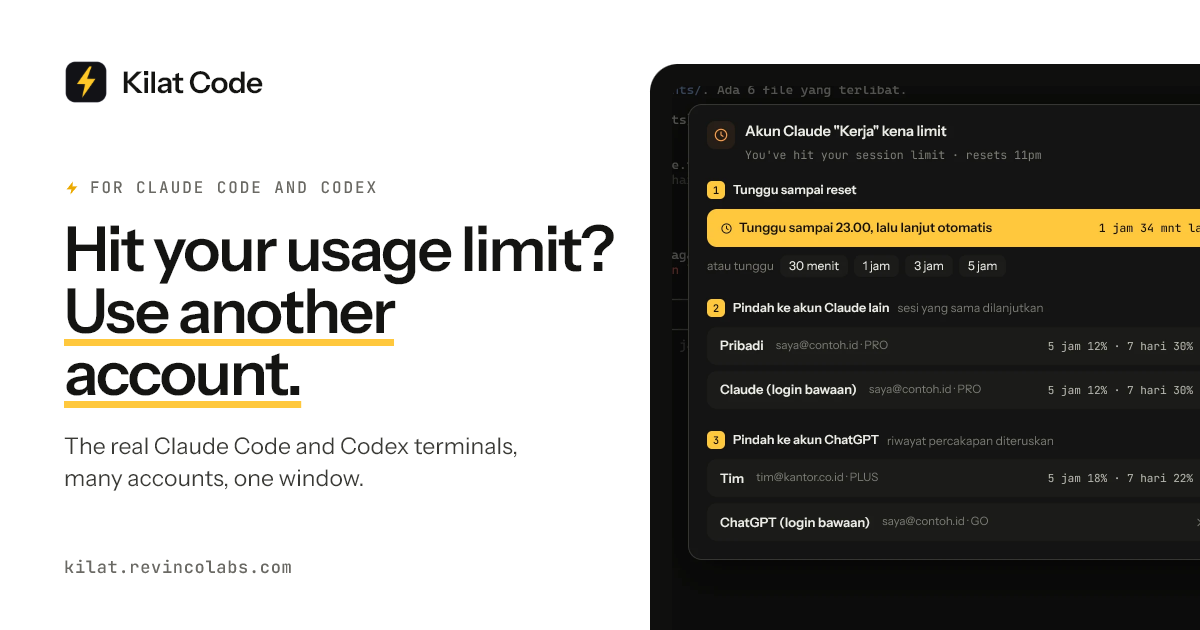
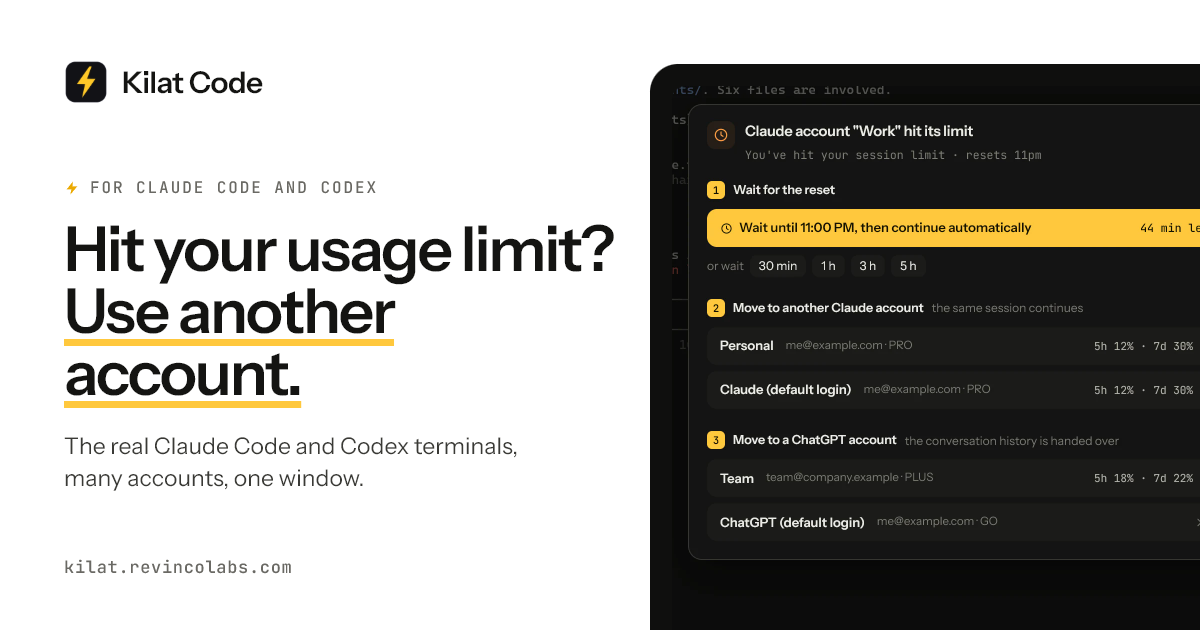
Website for 0.2.1: English screenshots, Fedora .rpm, English UI labels
The English pages show the app in English (screenshots taken from preview.html with English example data), the Indonesian pages keep Indonesian ones. Adds the .rpm download, version 0.2.1 and new file sizes, a Language row in the settings tables, and English UI labels throughout the English docs. The FAQ now says the app is available in English.

diff --git a/src/dev/mock.ts b/src/dev/mock.ts
@@ -17,6 +17,12 @@ const scenario = q.get("s") ?? "limit";
 const now = Date.now();
 const MIN = 60_000;
 const HOUR = 60 * MIN;
+/** Example data in English for ?lang=en (the website's English screenshots). */
+const EN = q.get("lang") === "en";
+const L = (id: string, en: string) => (EN ? en : id);
+const P1 = L("toko-online", "web-shop");
+const ROOT1 = `G:/${L("kode", "code")}/${P1}`;
+const ROOT2 = `G:/${L("kode", "code")}/api-server`;
 
 // A reset on a full hour, at least 40 minutes away, so the dialog text and the
 // CLI message agree.
@@ -58,13 +64,13 @@ const usage = (five: number, week: number) => ({
 });
 
 const accounts: Account[] = [
-  acc({ id: "c-kerja", provider: "claude", label: "Kerja", email: "dev@kantor.co.id", plan: "max", usage: usage(scenario === "limit" || scenario === "wait" ? 100 : 71, 64), limitedUntil: scenario === "limit" || scenario === "wait" ? resetAt : null }),
-  acc({ id: "c-pribadi", provider: "claude", label: "Pribadi", email: "saya@contoh.id", plan: "pro", usage: usage(12, 30) }),
-  acc({ id: "c-default", provider: "claude", kind: "default", label: "Claude (login bawaan)", email: "saya@contoh.id", plan: "pro", usage: usage(12, 30) }),
-  acc({ id: "x-tim", provider: "codex", kind: "chatgpt", label: "Tim", email: "tim@kantor.co.id", plan: "plus", usage: usage(18, 22) }),
-  acc({ id: "x-default", provider: "codex", kind: "default", label: "ChatGPT (login bawaan)", email: "saya@contoh.id", plan: "go" }),
+  acc({ id: "c-kerja", provider: "claude", label: L("Kerja", "Work"), email: L("dev@kantor.co.id", "dev@company.example"), plan: "max", usage: usage(scenario === "limit" || scenario === "wait" ? 100 : 71, 64), limitedUntil: scenario === "limit" || scenario === "wait" ? resetAt : null }),
+  acc({ id: "c-pribadi", provider: "claude", label: L("Pribadi", "Personal"), email: L("saya@contoh.id", "me@example.com"), plan: "pro", usage: usage(12, 30) }),
+  acc({ id: "c-default", provider: "claude", kind: "default", label: L("Claude (login bawaan)", "Claude (default login)"), email: L("saya@contoh.id", "me@example.com"), plan: "pro", usage: usage(12, 30) }),
+  acc({ id: "x-tim", provider: "codex", kind: "chatgpt", label: L("Tim", "Team"), email: L("tim@kantor.co.id", "team@company.example"), plan: "plus", usage: usage(18, 22) }),
+  acc({ id: "x-default", provider: "codex", kind: "default", label: L("ChatGPT (login bawaan)", "ChatGPT (default login)"), email: L("saya@contoh.id", "me@example.com"), plan: "go" }),
   acc({ id: "g-1", provider: "github", kind: "gh", label: "revincolabs", login: "revincolabs", gitName: "revincolabs", gitEmail: "dev@revincolabs.example" }),
-  acc({ id: "g-2", provider: "github", kind: "gh", label: "dev-kantor", login: "dev-kantor", gitName: "Dev Kantor", gitEmail: "dev@kantor.co.id" }),
+  acc({ id: "g-2", provider: "github", kind: "gh", label: L("dev-kantor", "work-dev"), login: L("dev-kantor", "work-dev"), gitName: L("Dev Kantor", "Work Dev"), gitEmail: L("dev@kantor.co.id", "dev@company.example") }),
 ];
 
 function thread(p: Partial<ThreadMeta> & Pick<ThreadMeta, "id" | "projectId" | "title">): ThreadMeta {
@@ -73,7 +79,7 @@ function thread(p: Partial<ThreadMeta> & Pick<ThreadMeta, "id" | "projectId" | "
     accountId: "c-pribadi",
     model: "opus",
     mode: "full",
-    cwd: "G:/kode/toko-online",
+    cwd: ROOT1,
     worktreeBranch: null,
     status: "ready",
     pinned: false,
@@ -91,24 +97,24 @@ const threads: ThreadMeta[] = [
   thread({
     id: "t1",
     projectId: "p1",
-    title: "Refactor pembayaran",
+    title: L("Refactor pembayaran", "Payments refactor"),
     accountId: "c-kerja",
     status: limited ? "limited" : "running",
     limit: limited ? { accountId: "c-kerja", provider: "claude", at: now - 3 * MIN, resetsAt: resetAt, message: `You've hit your session limit · resets ${resetText}` } : null,
     waitUntil: scenario === "wait" ? resetAt + MIN : null,
     updatedAt: now - 3 * MIN,
   }),
-  thread({ id: "t2", projectId: "p1", title: "Halaman checkout baru", provider: "codex", accountId: "x-tim", model: "", status: "running", worktreeBranch: "kilat/checkout", updatedAt: now - 1 * MIN }),
-  thread({ id: "t3", projectId: "p1", title: "Perbaiki bug login", status: "attention", updatedAt: now - 9 * MIN }),
-  thread({ id: "t4", projectId: "p2", title: "Migrasi database", cwd: "G:/kode/api-server", status: "running", updatedAt: now - 4 * MIN }),
-  thread({ id: "t5", projectId: "p2", title: "Tulis dokumentasi API", provider: "codex", accountId: "x-tim", model: "", cwd: "G:/kode/api-server", status: "ready", updatedAt: now - 3 * HOUR }),
-  thread({ id: "t6", projectId: "p2", title: "Coba Bun untuk test", cwd: "G:/kode/api-server", status: "off", archived: true, updatedAt: now - 5 * 24 * HOUR }),
+  thread({ id: "t2", projectId: "p1", title: L("Halaman checkout baru", "New checkout page"), provider: "codex", accountId: "x-tim", model: "", status: "running", worktreeBranch: "kilat/checkout", updatedAt: now - 1 * MIN }),
+  thread({ id: "t3", projectId: "p1", title: L("Perbaiki bug login", "Fix the login bug"), status: "attention", updatedAt: now - 9 * MIN }),
+  thread({ id: "t4", projectId: "p2", title: L("Migrasi database", "Database migration"), cwd: ROOT2, status: "running", updatedAt: now - 4 * MIN }),
+  thread({ id: "t5", projectId: "p2", title: L("Tulis dokumentasi API", "Write the API docs"), provider: "codex", accountId: "x-tim", model: "", cwd: ROOT2, status: "ready", updatedAt: now - 3 * HOUR }),
+  thread({ id: "t6", projectId: "p2", title: L("Coba Bun untuk test", "Try Bun for tests"), cwd: ROOT2, status: "off", archived: true, updatedAt: now - 5 * 24 * HOUR }),
 ];
 
 const data: AppData = {
   projects: [
-    { id: "p1", name: "toko-online", path: "G:/kode/toko-online", githubAccountId: "g-1", createdAt: now - 20 * 24 * HOUR },
-    { id: "p2", name: "api-server", path: "G:/kode/api-server", githubAccountId: "g-2", createdAt: now - 10 * 24 * HOUR },
+    { id: "p1", name: P1, path: ROOT1, githubAccountId: "g-1", createdAt: now - 20 * 24 * HOUR },
+    { id: "p2", name: "api-server", path: ROOT2, githubAccountId: "g-2", createdAt: now - 10 * 24 * HOUR },
   ],
   accounts,
   threads,
@@ -123,7 +129,7 @@ const data: AppData = {
     notify: true,
     sound: true,
     claudeChrome: false,
-    continuePrompt: "Lanjutkan pekerjaan yang tadi terhenti karena limit akun.",
+    continuePrompt: L("Lanjutkan pekerjaan yang tadi terhenti karena limit akun.", "Continue the work that stopped because the account hit its limit."),
   },
 };
 
@@ -140,7 +146,7 @@ const rule = dim("─".repeat(56));
 
 function claudeScreen(t: ThreadMeta): string {
   const a = accounts.find((x) => x.id === t.accountId)!;
-  const status = `${clay("⚡")} ${dim(`Kilat · ${a.label} · ${a.plan?.toUpperCase()} · ${a.usage?.windows.map((w) => `${w.label} ${w.usedPercent}%`).join(" · ")}`)}`;
+  const status = `${clay("⚡")} ${dim(`Kilat · ${a.label} · ${a.plan?.toUpperCase()} · ${a.usage?.windows.map((w) => `${L(w.label, w.label.replace(" jam", "h").replace(" hari", "d"))} ${w.usedPercent}%`).join(" · ")}`)}`;
   const head = [
     ` ${clay("▐▛███▜▌")}   ${bold("Claude Code")}`,
     `${clay("▝▜█████▛▘")}  ${dim(`Opus · Claude ${a.plan === "max" ? "Max" : "Pro"}`)}`,
@@ -150,9 +156,9 @@ function claudeScreen(t: ThreadMeta): string {
   const body =
     t.id === "t1"
       ? [
-          `${dim(">")} refactor modul pembayaran, lalu jalankan semua test`,
+          `${dim(">")} ${L("refactor modul pembayaran, lalu jalankan semua test", "refactor the payments module, then run all the tests")}`,
           "",
-          `● Saya mulai dari ${blue("src/payments/")}. Ada 6 file yang terlibat.`,
+          `● ${L("Saya mulai dari", "I'll start with")} ${blue("src/payments/")}. ${L("Ada 6 file yang terlibat.", "Six files are involved.")}`,
           "",
           `${green("●")} ${bold("Read")}(src/payments/charge.ts)`,
           `  ${dim("⎿  Read 214 lines")}`,
@@ -163,12 +169,12 @@ function claudeScreen(t: ThreadMeta): string {
           `${green("●")} ${bold("Bash")}(npm test)`,
           `  ${dim("⎿")}  42 passed, ${red("3 failed")}`,
           "",
-          "● Memperbaiki 3 test yang gagal di charge.test.ts…",
-          ...(limited ? [`  ${dim("⎿")}  ${red(`You've hit your session limit · resets ${resetText}`)}`] : [`${clay("✻")} ${clay("Menjalankan ulang test…")} ${dim("(48s · esc to interrupt)")}`]),
+          L("● Memperbaiki 3 test yang gagal di charge.test.ts…", "● Fixing the 3 failing tests in charge.test.ts…"),
+          ...(limited ? [`  ${dim("⎿")}  ${red(`You've hit your session limit · resets ${resetText}`)}`] : [`${clay("✻")} ${clay(L("Menjalankan ulang test…", "Re-running the tests…"))} ${dim("(48s · esc to interrupt)")}`]),
           "",
         ]
       : [
-          `${dim(">")} buat migrasi untuk kolom invoice_due_date dan isi data lamanya`,
+          `${dim(">")} ${L("buat migrasi untuk kolom invoice_due_date dan isi data lamanya", "add a migration for invoice_due_date and backfill old rows")}`,
           "",
           `${green("●")} ${bold("Read")}(db/schema.sql)`,
           `  ${dim("⎿  Read 388 lines")}`,
@@ -176,7 +182,7 @@ function claudeScreen(t: ThreadMeta): string {
           `${green("●")} ${bold("Write")}(db/migrations/0042_invoice_due_date.sql)`,
           `  ${dim("⎿  Wrote 31 lines to db/migrations/0042_invoice_due_date.sql")}`,
           "",
-          `${clay("✻")} ${clay("Menjalankan migrasi di database lokal…")} ${dim("(12s · esc to interrupt)")}`,
+          `${clay("✻")} ${clay(L("Menjalankan migrasi di database lokal…", "Running the migration on the local database…"))} ${dim("(12s · esc to interrupt)")}`,
           "",
         ];
   return [...head, ...body, rule, `${dim(">")} `, rule, `  ${status}`].join("\r\n");
@@ -190,16 +196,16 @@ function codexScreen(t: ThreadMeta): string {
     `${dim("│")} ${dim("directory:")} ${t.cwd.replaceAll("/", "\\").padEnd(36)}${dim("│")}`,
     dim("╰────────────────────────────────────────────────╯"),
     "",
-    `${dim("›")} buat halaman checkout baru dengan ringkasan pesanan`,
+    `${dim("›")} ${L("buat halaman checkout baru dengan ringkasan pesanan", "build a new checkout page with an order summary")}`,
     "",
-    `${blue("•")} Menambahkan komponen ringkasan pesanan dan validasi alamat.`,
+    `${blue("•")} ${L("Menambahkan komponen ringkasan pesanan dan validasi alamat.", "Added an order summary component and address validation.")}`,
     `  ${dim("└ Edited src/pages/checkout.tsx (+86 -4)")}`,
     "",
     `${blue("•")} ${dim("Working (31s · esc to interrupt)")}`,
   ].join("\r\n");
 }
 
-const bashScreen = `${green("saya@laptop")} ${clay("MINGW64")} ${blue("/g/kode/toko-online")} ${blue("(refactor/pembayaran)")}\r\n$ `;
+const bashScreen = `${green(L("saya@laptop", "me@laptop"))} ${clay("MINGW64")} ${blue(`/g/${L("kode", "code")}/${P1}`)} ${blue(`(${L("refactor/pembayaran", "refactor/payments")})`)}\r\n$ `;
 
 // ------------------------------------------------------------------- git
 
@@ -210,10 +216,10 @@ index 4c1d2e0..9a7f3b1 100644
 @@ -12,14 +12,23 @@ import { Money } from "../money";
  export async function charge(order: Order, card: CardToken) {
 -  const total = order.items.reduce((s, i) => s + i.price * i.qty, 0);
--  if (total <= 0) throw new Error("total tidak valid");
+-  if (total <= 0) throw new Error("${L("total tidak valid", "invalid total")}");
 +  const total = orderTotal(order);
 +  if (total.isZero()) {
-+    throw new PaymentError("EMPTY_ORDER", "Pesanan kosong");
++    throw new PaymentError("EMPTY_ORDER", "${L("Pesanan kosong", "Empty order")}");
 +  }
    const fee = gatewayFee(total);
 -  return gateway.charge(card, total + fee);
@@ -234,7 +240,7 @@ import { ledger } from "./ledger";
 export async function charge(order: Order, card: CardToken) {
   const total = orderTotal(order);
   if (total.isZero()) {
-    throw new PaymentError("EMPTY_ORDER", "Pesanan kosong");
+    throw new PaymentError("EMPTY_ORDER", "${L("Pesanan kosong", "Empty order")}");
   }
   const fee = gatewayFee(total);
   const result = await gateway.charge(card, total.add(fee));
@@ -254,8 +260,8 @@ mockIPC(
         return {
           data: structuredClone(data),
           tools: { bash: "C:/Program Files/Git/bin/bash.exe", claude: "claude", codex: "codex", gh: "gh" },
-          dataDir: "C:/Users/saya/AppData/Roaming/dev.kilat.code",
-          version: "0.2.0",
+          dataDir: `C:/Users/${L("saya", "me")}/AppData/Roaming/dev.kilat.code`,
+          version: "0.2.1",
         };
       case "codex_models":
         return [];
@@ -270,7 +276,7 @@ mockIPC(
       case "git_status":
         return {
           isRepo: true,
-          branch: "refactor/pembayaran",
+          branch: L("refactor/pembayaran", "refactor/payments"),
           ahead: 2,
           behind: 0,
           files: [
@@ -283,10 +289,10 @@ mockIPC(
         };
       case "git_recent":
         return [
-          { hash: "7bb51df", subject: "Pisahkan perhitungan total pesanan", when: "2 jam lalu" },
-          { hash: "5fd01da", subject: "Catat setiap transaksi di ledger", when: "kemarin" },
-          { hash: "a3ad600", subject: "Tambah PaymentError dengan kode", when: "2 hari lalu" },
-          { hash: "358b468", subject: "Perbarui SDK gateway ke v4", when: "3 hari lalu" },
+          { hash: "7bb51df", subject: L("Pisahkan perhitungan total pesanan", "Split out the order total calculation"), when: L("2 jam lalu", "2 hours ago") },
+          { hash: "5fd01da", subject: L("Catat setiap transaksi di ledger", "Record every transaction in the ledger"), when: L("kemarin", "yesterday") },
+          { hash: "a3ad600", subject: L("Tambah PaymentError dengan kode", "Add PaymentError with codes"), when: L("2 hari lalu", "2 days ago") },
+          { hash: "358b468", subject: L("Perbarui SDK gateway ke v4", "Update the gateway SDK to v4"), when: L("3 hari lalu", "3 days ago") },
         ];
       case "git_diff":
         return diff;
@@ -299,7 +305,7 @@ mockIPC(
         return pick.map((name) => ({ name, path: `${base}/${name}`, isDir: !name.includes(".") }));
       }
       case "fs_read_file":
-        return files[Object.keys(files).find((k) => String(args.path).endsWith(k)) ?? ""] ?? "// contoh\n";
+        return files[Object.keys(files).find((k) => String(args.path).endsWith(k)) ?? ""] ?? L("// contoh\n", "// example\n");
       case "fs_list_files":
         return ["src/payments/charge.ts", "src/payments/ledger.ts", "src/payments/gateway.ts", "src/pages/checkout.tsx", "tests/charge.test.ts"];
       default:

diff --git a/website/src/i18n/home.ts b/website/src/i18n/home.ts
@@ -179,7 +179,7 @@ export const home: Record<Lang, HomeCopy> = {
         ],
         [
           "Bisa dipakai di macOS atau Linux?",
-          "Bisa: macOS 11+ (Apple Silicon dan Intel) dan Linux x86_64 (AppImage atau .deb, dan .rpm untuk Fedora mulai v0.2.1). Versi Windows yang paling banyak diuji; macOS dan Linux masih tahap awal, jadi laporan masalah sangat membantu.",
+          "Bisa: macOS 11+ (Apple Silicon dan Intel) dan Linux x86_64 (AppImage, .deb, atau .rpm untuk Fedora). Versi Windows yang paling banyak diuji; macOS dan Linux masih tahap awal, jadi laporan masalah sangat membantu.",
         ],
         [
           "Apa bedanya dengan menjalankan CLI di terminal biasa?",
@@ -204,14 +204,14 @@ export const home: Record<Lang, HomeCopy> = {
     meta: "Windows, macOS, Linux · Free",
     alt: {
       limit:
-        "Kilat Code: the thread list on the left, a Claude Code terminal on the right, and a dialog with options because the Claude account named Kerja hit its limit",
-      wait: "Orange bar above the terminal: waiting for the Kerja account's limit to reset, then continuing automatically, with a countdown",
+        "Kilat Code: the thread list on the left, a Claude Code terminal on the right, and a dialog with options because the Claude account named Work hit its limit",
+      wait: "Orange bar above the terminal: waiting for the Work account's limit to reset, then continuing automatically, with a countdown",
       terminal: "A Claude Code terminal inside Kilat, with the account, model, and permission mode bar above it",
       sidebar: "Kilat's thread list showing the status of each agent",
       changes: "Kilat with the Changes panel open: changed files, a commit message box, and commit, push, and create pull request buttons",
     },
     panelCaption:
-      'The Claude account "Kerja" (Work) hit its limit in the middle of a refactor. Kilat offers three ways to continue, right above the terminal. The app\'s interface is in Indonesian.',
+      'The Claude account "Work" hit its limit in the middle of a refactor. Kilat offers three ways to continue, right above the terminal.',
     facts: [
       { big: "2.9 MB", text: "Windows installer. Built with Tauri and Rust, not Electron.", small: "macOS 7.3 MB · Linux .deb 4.5 MB" },
       { big: "0 servers", text: "Tokens stay in your system's secret store. Kilat has no servers of its own.", small: "Credential Manager · Keychain · Secret Service" },
@@ -339,11 +339,11 @@ export const home: Record<Lang, HomeCopy> = {
         ],
         [
           "Does it run on macOS and Linux?",
-          "Yes: macOS 11+ (Apple Silicon and Intel) and Linux x86_64 (AppImage or .deb, plus an .rpm for Fedora from v0.2.1). Windows is the most tested; macOS and Linux are still early, so bug reports help a lot.",
+          "Yes: macOS 11+ (Apple Silicon and Intel) and Linux x86_64 (AppImage, .deb, or .rpm for Fedora). Windows is the most tested; macOS and Linux are still early, so bug reports help a lot.",
         ],
         [
           "Is the app in English?",
-          "The app's interface is currently in Indonesian. Claude Code and Codex reply in whatever language you write in, and the English documentation translates every button label it mentions.",
+          "Yes. Kilat follows your system language (English, or Indonesian on an Indonesian system), and you can switch it in Settings → Language. Messages Kilat sends to the agents follow the same language.",
         ],
         [
           "How is this different from running the CLI in a normal terminal?",

diff --git a/website/src/site.ts b/website/src/site.ts
@@ -1,6 +1,6 @@
 // Everything that changes with a release lives here.
 
-export const VERSION = "0.2.0";
+export const VERSION = "0.2.1";
 
 export const REPO = "revincolabs/kilat-code";
 export const REPO_URL = `https://github.com/${REPO}`;
@@ -57,7 +57,7 @@ export const PLATFORMS: Platform[] = [
     id: "mac",
     name: "macOS",
     requirement: "macOS 11+ · Apple Silicon & Intel",
-    files: [{ label: "Disk image .dmg", url: latest("KilatCode_darwin_universal.dmg"), mb: 7.3 }],
+    files: [{ label: "Disk image .dmg", url: latest("KilatCode_darwin_universal.dmg"), mb: 7.5 }],
     note: { id: "Pertama kali: klik kanan aplikasi → Open.", en: "First launch: right-click the app → Open." },
   },
   {
@@ -66,11 +66,12 @@ export const PLATFORMS: Platform[] = [
     requirement: "x86_64 · WebKitGTK 4.1",
     files: [
       { label: "AppImage", url: latest("KilatCode_linux_amd64.AppImage"), mb: 83 },
-      { label: ".deb", url: latest("KilatCode_linux_amd64.deb"), mb: 4.5 },
+      { label: ".deb", url: latest("KilatCode_linux_amd64.deb"), mb: 4.6 },
+      { label: ".rpm (Fedora)", url: latest("KilatCode_linux_x86_64.rpm"), mb: 4.6 },
     ],
     note: {
-      id: "AppImage: chmod +x lalu jalankan. Fedora: pasang fuse-libs dulu; paket .rpm menyusul di v0.2.1.",
-      en: "AppImage: chmod +x, then run it. Fedora: install fuse-libs first; an .rpm package arrives in v0.2.1.",
+      id: "AppImage: chmod +x lalu jalankan. Fedora: pakai .rpm (atau pasang fuse-libs untuk AppImage).",
+      en: "AppImage: chmod +x, then run it. Fedora: use the .rpm (or install fuse-libs for the AppImage).",
     },
   },
 ];

diff --git a/README.md b/README.md
@@ -16,7 +16,7 @@
 - **Around the agents.** A file editor, diffs, commit, push, branches, and pull requests, with a GitHub account chosen per project.
 - **Your setup keeps working.** Skills, plugins, MCP servers, and hooks you installed in Claude Code and Codex apply to every account.
 - **Light and local.** Built with Tauri and Rust (about 3 MB on Windows). No Kilat servers, no telemetry; tokens stay in your system's secret store.
-- **English and Indonesian.** The app follows your system language (from v0.2.1) and can be switched in Settings.
+- **English and Indonesian.** The app follows your system language and can be switched in Settings.
 
 ## Download
 
@@ -26,7 +26,7 @@ Get the installer for your system from the [latest release](https://github.com/r
 |---|---|---|
 | Windows 10/11 (64-bit) | `KilatCode_windows_x64-setup.exe` | Not code-signed yet: in SmartScreen click *More info → Run anyway* |
 | macOS 11+ (Apple Silicon & Intel) | `KilatCode_darwin_universal.dmg` | Not notarized yet: right-click the app → *Open* |
-| Linux x86_64 | `.AppImage`, `.deb`, or `.rpm` (Fedora, from v0.2.1) | Needs WebKitGTK 4.1 and a Secret Service (GNOME Keyring or KWallet) |
+| Linux x86_64 | `.AppImage`, `.deb`, or `.rpm` (Fedora) | Needs WebKitGTK 4.1 and a Secret Service (GNOME Keyring or KWallet) |
 
 Kilat checks for updates by itself and offers them in the status bar. Windows is the most tested platform; macOS and Linux are still early, so bug reports help a lot.
 
